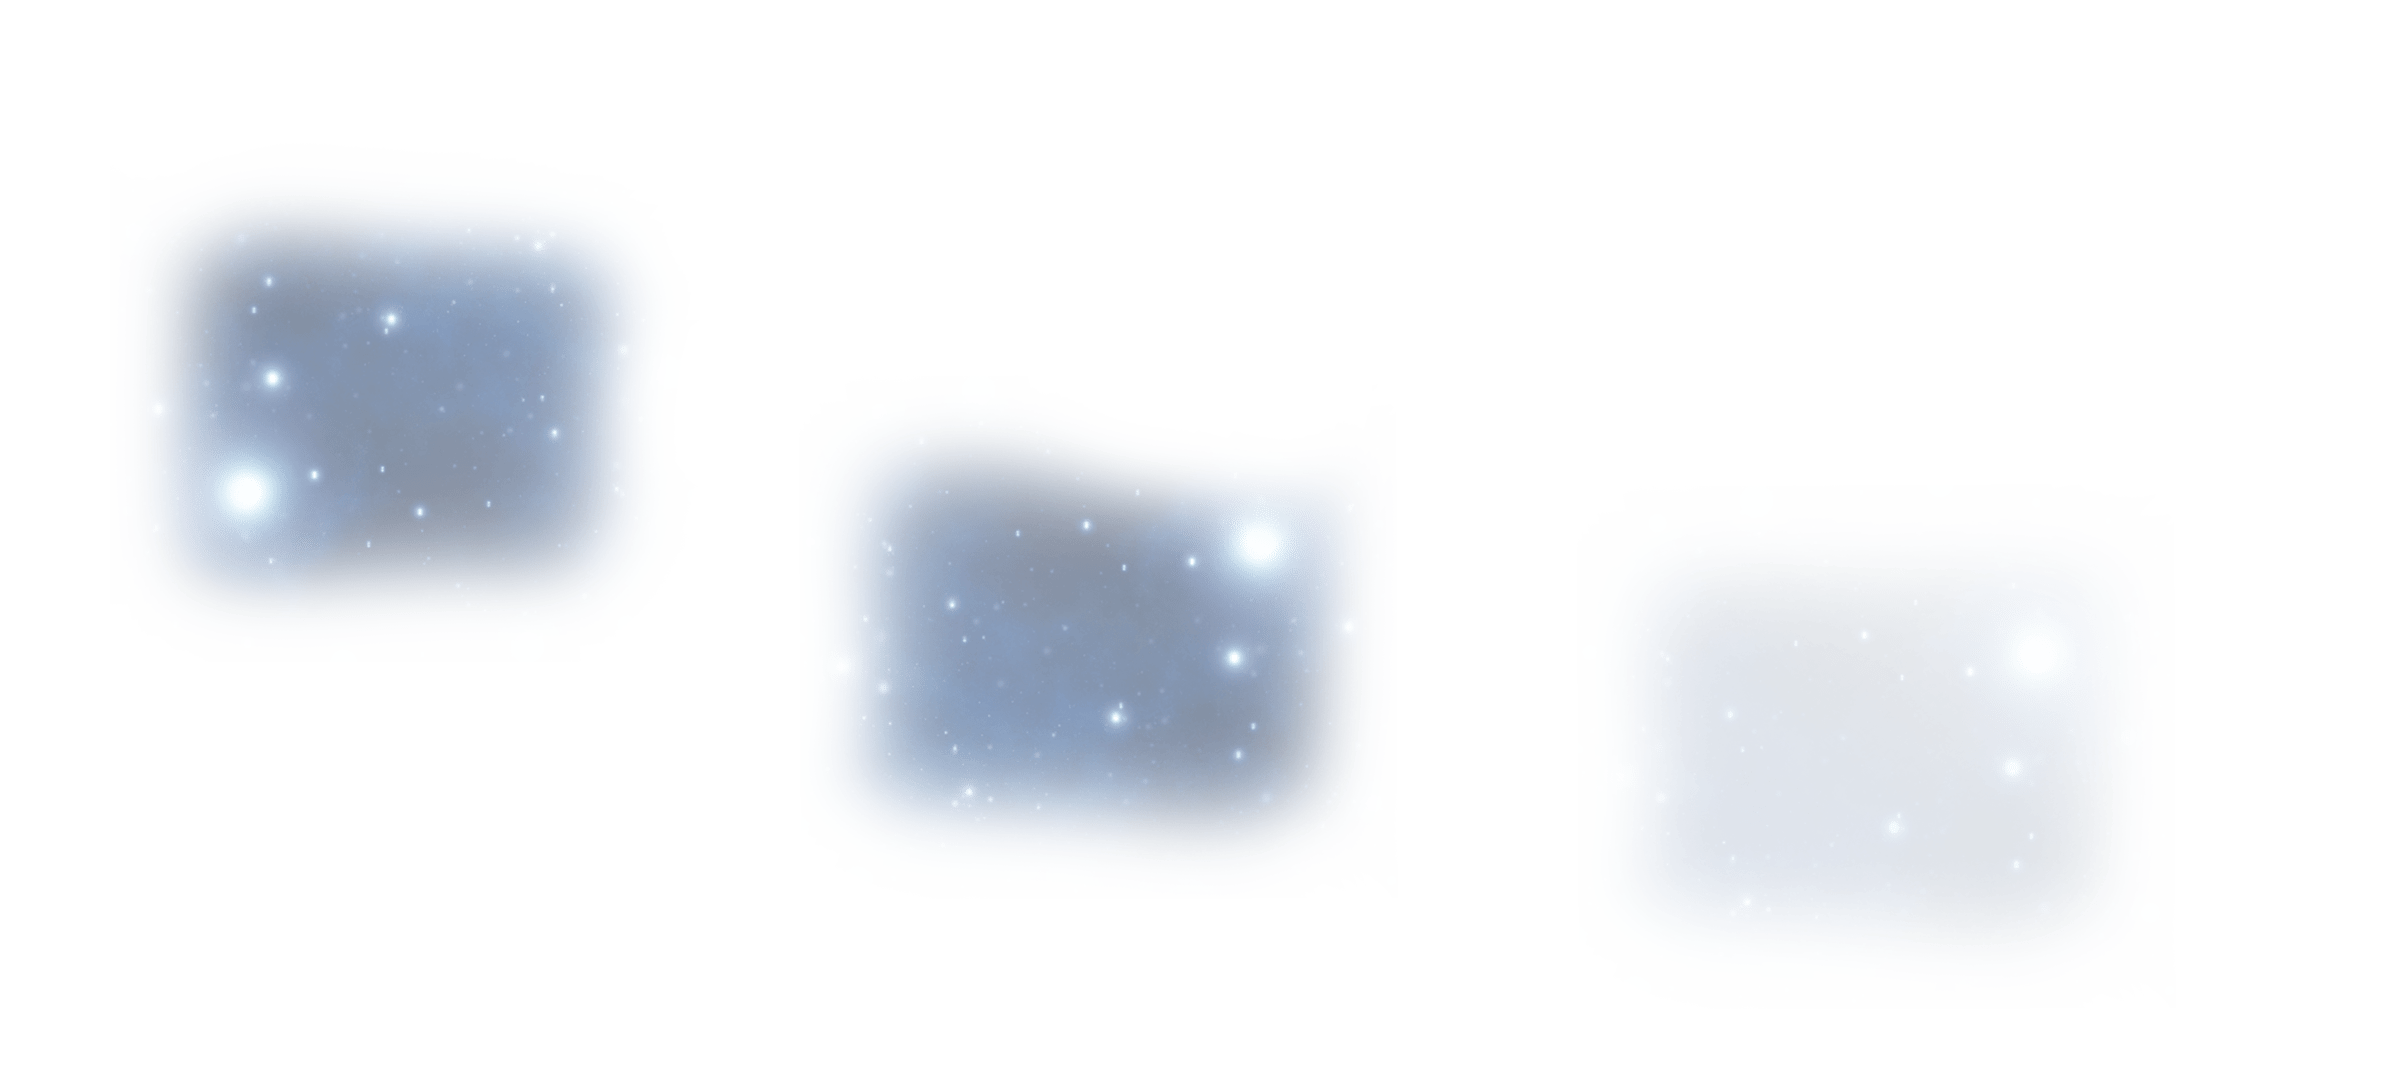
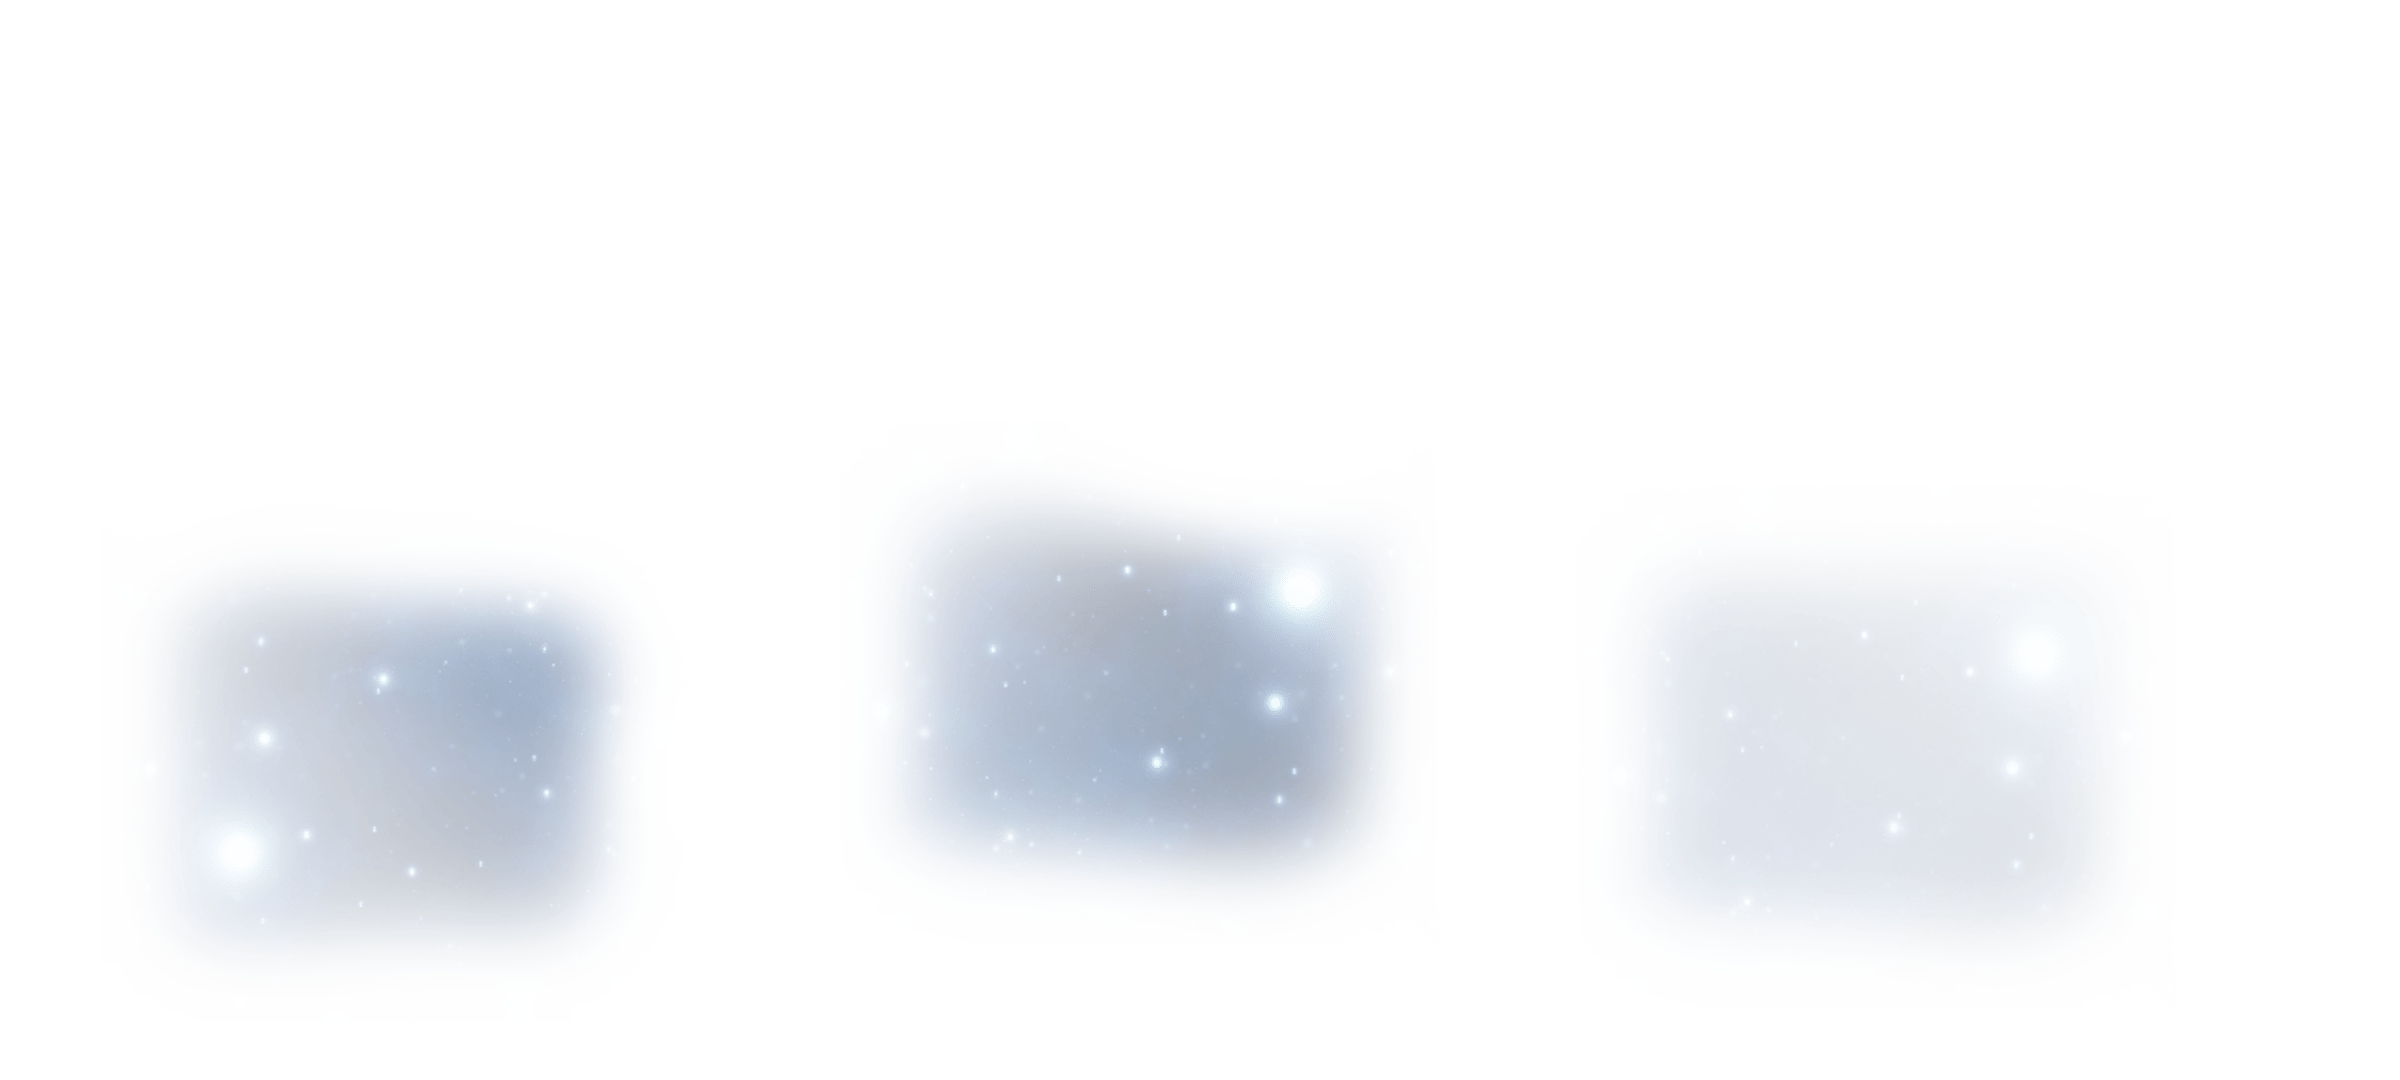
New layers added

Changed region(s): [[0.0625, 0.1833, 0.2812, 0.8861], [0.3438, 0.3972, 0.5938, 0.825]]

diff --git a/scripts/main.js b/scripts/main.js
@@ -583,7 +583,7 @@ class Level4 extends Game {
         // initializing level specific value
         this.background.image = document.getElementById('level4Background');
         this.planet.image = document.getElementById('level4Planet');
-        this.layer.image = document.getElementById('layer1');
+        this.layer.image = document.getElementById('layer4');
         this.ui.pauseImage = document.getElementById('level4PauseMenu');
         this.winningScore = 150;
         this.gameTime = 0;
@@ -623,7 +623,7 @@ class Level5 extends Game {
         // initializing level specific value
         this.background.image = document.getElementById('level5Background');
         this.planet.image = document.getElementById('level5Planet');
-        this.layer.image = document.getElementById('layer1');
+        this.layer.image = document.getElementById('layer5');
         this.ui.pauseImage = document.getElementById('level5PauseMenu');
         this.winningScore = 250;
         this.gameTime = 0;

diff --git a/scripts/backgroundScript.js b/scripts/backgroundScript.js
@@ -35,15 +35,15 @@ class Layer {
         this.height = 1080;
         this.scaledWidth = this.width 
         this.scaledHeight = this.height
-        this.x = -1200; // starts from spesific position from left outside canvas
+        this.x = -1500; // starts from spesific position from left outside canvas
         this.y = 0;
     }
 
     update() {
         if (!this.game.pause) {
-            this.x += 1  // layer moving from left to right certain speed
+            this.x += 0.8  // layer moving from left to right certain speed
             if (this.x > this.width)  // when reaching this position starts again
-                this.x = -1200;
+                this.x = -1500;
             // console.log(this.x);
         }
 

diff --git a/gog.html b/gog.html
@@ -86,6 +86,8 @@
         <!-- Layers -->
         <img src="./assets/Backgrounds/layers/layer1-min.png" id="layer1" />
         <img src="./assets/Backgrounds/layers/layer2-min.png" id="layer2" />
+        <img src="./assets/Backgrounds/layers/layer4-min.png" id="layer4" />
+        <img src="./assets/Backgrounds/layers/layer5-min.png" id="layer5" />
 
         <!-- Treats -->
         <img
